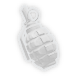
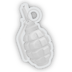
balancing stuff, add btr bundles, fix sorting (lol)

diff --git a/FPVDroneModClient/Helpers/InstanceHelper.cs b/FPVDroneModClient/Helpers/InstanceHelper.cs
@@ -5,6 +5,7 @@ using EFT.CameraControl;
 using FPVDroneModClient.Components;
 using FPVDroneModClient.Config;
 using UnityEngine;
+using WTTClientCommonLib.Services;
 
 namespace FPVDroneModClient.Helpers
 {
@@ -95,14 +96,16 @@ namespace FPVDroneModClient.Helpers
 
         public static void LoadTankAssets()
         {
+            AssetLoader assetLoader = WTTClientCommonLib.WTTClientCommonLib.Instance.AssetLoader;
+            
             if (!BtrRecent)
             {
-                BtrRecent = WTTClientCommonLib.WTTClientCommonLib.Instance.AssetLoader.LoadPrefabFromBundle("btr_destroyed_recent", "Assets/Drone/BTR/Prefabs/btr_destroyed_recent.prefab");
+                BtrRecent = assetLoader.LoadPrefabFromBundle("btr_destroyed_recent", "Assets/Drone/BTR/Prefabs/btr_destroyed_recent.prefab");
             }
 
             if (!BtrOld)
             {
-                BtrOld = WTTClientCommonLib.WTTClientCommonLib.Instance.AssetLoader.LoadPrefabFromBundle("btr_destroyed_old", "Assets/Drone/BTR/Prefabs/btr_destroyed_old.prefab");
+                BtrOld = assetLoader.LoadPrefabFromBundle("btr_destroyed_old", "Assets/Drone/BTR/Prefabs/btr_destroyed_old.prefab");
             }
         }
 

diff --git a/FPVDroneModClient/Patches/GetIndexOfItemTypePatch.cs b/FPVDroneModClient/Patches/GetIndexOfItemTypePatch.cs
@@ -1,0 +1,42 @@
+using EFT.InventoryLogic;
+using HarmonyLib;
+using SPT.Reflection.Patching;
+using System;
+using System.Reflection;
+
+namespace FPVDroneModClient.Patches
+{
+    public class GetIndexOfItemTypePatch : ModulePatch
+    {
+        protected override MethodBase GetTargetMethod()
+        {
+            return AccessTools.Method(typeof(GClass3380), nameof(GClass3380.GetIndexOfItemType));
+        }
+
+        [PatchPrefix]
+        public static bool PatchPrefix(GClass3380 __instance, ref int __result, Item i)
+        {
+            Type type = i.GetType();
+            
+            int index = GClass3381.IndexOf(type);
+            if (index >= 0)
+            {
+                __result = index;
+                return false;
+            }
+
+            for (Type type2 = type; type2 != null; type2 = type2.BaseType)
+            {
+                index = GClass3381.IndexOf(type2);
+                if (index >= 0)
+                {
+                    __result = index;
+                    return false;
+                }
+            }
+
+            __result = int.MaxValue;
+            return false;
+        }
+    }
+}

diff --git a/FPVDroneModClient/Plugin.cs b/FPVDroneModClient/Plugin.cs
@@ -54,6 +54,7 @@ namespace FPVDroneModClient
             new LocalPlayerDiedPatch().Enable();
             new ItemFactoryGetItemTypePatch().Enable();
             new SpawnBtrPatch().Enable();
+            new GetIndexOfItemTypePatch().Enable();
 
             BrainManager.AddCustomLayer(typeof(DroneCombatLayer),
                 BotGlobals.AllBrainNames,
